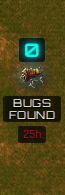
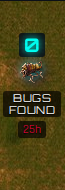
feat(monitor): the whole floor fits one screen - rows tightened, loop beside the silo, legend in the head row (Ben)
Ben, 3:27 PM CDT 2026-09-12: "tighten everything up vertically. I'd like
the full CI/CD to fit on one screen easily" (his window: 1512x850).

- Row-1 gap 56 -> 14px; row 3 (conflict loop + closed-issues list, all
  right of the silo) pulled 98px up into the bare ground beside the 9x9
  silo's lower half; the legend sits in the panel head row beside the repo
  dropdown instead of taking a line; sparkline slot 26 -> 22; the closed
  list denser (10 rows ~150px, 500px wide, clear of DEPLOYED).
- Strip is 591px, bottom at y=787 of 850 with a full 10-row list.

Guard at 1512x850 with 10 closed issues: strip ends above y=800 and is
under 620px; the list clears DEPLOYED, every row-2 belt and the shared
belt; the loop clears row 2's stage content; the legend is above the
ground and off the dropdown/refresh button. Two earlier cuts of the pull
failed it (list into MERGED; list clipping a belt's bottom inserter;
legend on the list's last row) and set these numbers. Mutants: 56px gaps
(runs past the window) and -190px (overlap) both killed.

Claude-Session: https://claude.ai/code/session_015a21LH9eqkn4oZydkWAQ3i

diff --git a/queue_router.py b/queue_router.py
@@ -7423,7 +7423,15 @@ background-repeat:repeat;background-size:1536px 768px;border-radius:6px}
    from the from-stage's top to the to-stage's bottom regardless of this
    gap (positionShipElbows sizes it), so the gap only needs to be enough
    for the belt to visibly read as a run between the rows, not to hold it. */
-.ship-flow.ship-row-1,.ship-flow.ship-row-2{margin-bottom:56px}
+/* Ben (3:27 PM, 2026-09-12): "tighten everything up vertically - the full
+   CI/CD should fit on one screen easily." The row-end belts span sprite to
+   sprite whatever the gap, so the rows only need enough air to read as
+   rows. Row 3 (the conflict loop + closed-issues list, all of it right of
+   x~360) is pulled UP into the empty ground beside the 9x9 silo's lower
+   half, which is what row 2's height is made of. */
+.ship-flow.ship-row-1{margin-bottom:14px}
+.ship-flow.ship-row-2{margin-bottom:0}
+.ship-flow.ship-row-3{margin-top:-98px}
 /* Ben's 10:08 AM rig (2026-09-12): row 2 AND row 3 both start at the right
    edge, under 'in review' - row 3 is the short conflict side-loop
    (conflicted, resolved) hanging under gate verdicts / approved, so it is
@@ -7451,7 +7459,7 @@ padding-right:12px;white-space:nowrap}
 .ship-stage{background:none;border:0;border-radius:0;
 padding:7px 6px;min-width:92px;text-align:center;display:flex;flex-direction:column;
 align-items:center;justify-content:flex-start;gap:2px;cursor:pointer}
-.ship-hist-spacer{height:26px;margin:0 auto 3px auto}
+.ship-hist-spacer{height:22px;margin:0 auto 2px auto}
 .ship-stage{position:relative}
 /* SHIP-GAME item 0: the whole box is the click target now (no caret button) -
    a visible focus ring is the keyboard-reachability signal the caret used to
@@ -7539,7 +7547,11 @@ filter:var(--ground-shadow)}
 @keyframes asm3-x{to{background-position-x:-640px}}
 @keyframes asm3-y{to{background-position-y:-356px}}
 @media(prefers-reduced-motion:reduce){.ship-sprite.asm3.working{animation:none}}
+/* One-screen (Ben, 3:27 PM): the legend takes no vertical space - it sits
+   up in the panel's head row, in the empty run between the repo dropdown
+   and the refresh button. */
 .ship-legend{display:flex;gap:18px;align-items:center;margin:6px 0 4px;font-size:.72em;color:#c7cee0;text-shadow:var(--text-outline)}
+#ship-flow .ship-legend{position:absolute;top:-36px;left:400px;margin:0;z-index:3}
 .ship-legend-chip{display:flex;align-items:center;gap:6px}
 .ship-legend-swatch{width:16px;height:16px;flex:0 0 auto}
 .ship-legend-swatch.stage-machine{border-radius:2px;border:1px solid #2a3450;background:rgba(255,255,255,.03)}
@@ -7674,8 +7686,8 @@ border-radius:1px 1px 0 0;min-height:1px}
    width wider than the machine, a touch taller, and on the same dark plate
    as the captions so the line reads. */
 .ship-history-spark{display:block;width:100%;height:22px}
-.ship-stage>.ship-history-spark,.ship-stage .ship-issues-rate{width:110px;min-width:110px;margin:0 auto 3px auto}
-.ship-stage>.ship-history-spark{height:26px;background:rgba(0,0,0,.5);border-radius:3px;padding:2px 3px;box-sizing:border-box}
+.ship-stage>.ship-history-spark,.ship-stage .ship-issues-rate{width:110px;min-width:110px;margin:0 auto 2px auto}
+.ship-stage>.ship-history-spark{height:22px;background:rgba(0,0,0,.5);border-radius:3px;padding:2px 3px;box-sizing:border-box}
 .ship-stage .ship-issues-rate{background:rgba(0,0,0,.5);border-radius:3px;padding:2px 3px;box-sizing:border-box;height:auto}
 .ship-stage .ship-issues-rate .ship-history-spark{height:22px}
 /* SHIP-SPARK-3 hover-tooltip fix: SHIP-SPARK/SHIP-SPARK-2 used a native SVG
@@ -8000,10 +8012,10 @@ gap:0;padding:2px 0;align-self:center;align-items:center}
    2), so the list is the row's LAST DOM child and lands in the open space
    on the left. */
 .ship-closed{align-self:flex-start;margin:8px 24px 0 0;background:rgba(0,0,0,.66);border-radius:4px;
-padding:6px 10px;color:#fff;font-size:.72em;font-family:'Orbitron',monospace;letter-spacing:.5px;min-width:380px;max-width:560px}
-.ship-closed-head{display:grid;grid-template-columns:1fr 78px 92px;gap:8px;text-transform:uppercase;color:#c7cee0;
+padding:4px 8px;color:#fff;font-size:.58em;font-family:'Orbitron',monospace;letter-spacing:.3px;min-width:380px;max-width:500px}
+.ship-closed-head{display:grid;grid-template-columns:1fr 70px 84px;gap:8px;text-transform:uppercase;color:#c7cee0;
 font-size:.85em;border-bottom:1px solid #556;padding-bottom:3px;margin-bottom:3px;white-space:nowrap}
-.ship-closed-row{display:grid;grid-template-columns:56px 1fr 78px 92px;gap:8px;line-height:1.5;white-space:nowrap}
+.ship-closed-row{display:grid;grid-template-columns:52px 1fr 70px 84px;gap:8px;line-height:1.2;white-space:nowrap}
 .ship-closed-title{overflow:hidden;text-overflow:ellipsis;color:#e6e9f0}
 .ship-closed-num{color:var(--neon-cyan)}
 .ship-closed-t{text-align:right;font-variant-numeric:tabular-nums}

diff --git a/tests/dashboard-truth/factorio-belts-evidence.py b/tests/dashboard-truth/factorio-belts-evidence.py
@@ -674,6 +674,57 @@ with sync_playwright() as p:
     assert bg == '1536px 768px', bg
     browser.close()
 
+# ONE SCREEN (Ben, 3:27 PM CDT 2026-09-12): "tighten everything up
+# vertically - I'd like the full CI/CD to fit on one screen easily." His
+# window is 1512x850 CSS px (3024x1964 retina, browser chrome off), the page
+# header puts the strip's top at ~196. With a full 10-row closed-issues
+# list the whole strip (legend, three rows, list, silo) must end well above
+# the fold, and nothing may overlap: row 3 is pulled up beside the silo, so
+# the closed list must stay clear of DEPLOYED and the loop clear of row 2.
+pipeline_fixture_ten_closed = dict(pipeline_fixture, closed_issue_timings=[
+    dict(pipeline_fixture['closed_issue_timings'][0], number=7000 + i, title='Closed issue number %d with a longish title to clip' % i) for i in range(10)])
+with sync_playwright() as p:
+    browser = p.chromium.launch(headless=True)
+    page = browser.new_page(viewport={'width': 1512, 'height': 850})
+    stub_routes(page, pipeline_fixture_ten_closed)
+    page.goto('http://127.0.0.1:5099/', wait_until='domcontentloaded')
+    page.evaluate('async()=>{await refreshShipFlow();}')
+    page.wait_for_timeout(1200)
+    flow = page.locator('#ship-flow').bounding_box()
+    assert flow['y'] + flow['height'] <= 800, ('strip runs past a 850px window', flow)
+    assert flow['height'] <= 620, ('strip taller than one screen allows', flow)
+    def box(sel):
+        # The union of a stage's CHILDREN, not its flex box - row 2's boxes
+        # all stretch to the silo's height, which is empty ground below the
+        # short stages, not content.
+        return page.locator(sel).evaluate('''el => { let l = 1e9, t = 1e9, r = -1e9, b = -1e9;
+            for (const c of el.children) { const q = c.getBoundingClientRect(); if (!q.width) continue; l = Math.min(l, q.left); t = Math.min(t, q.top); r = Math.max(r, q.right); b = Math.max(b, q.bottom); }
+            if (l > r) { const q = el.getBoundingClientRect(); return {x: q.left, y: q.top, width: q.width, height: q.height}; }
+            return {x: l, y: t, width: r - l, height: b - t}; }''')
+    def overlap(a, b):
+        return a['x'] < b['x'] + b['width'] and b['x'] < a['x'] + a['width'] and a['y'] < b['y'] + b['height'] and b['y'] < a['y'] + a['height']
+    deployed = box('[data-square="last deploy"]'); closed = box('.ship-closed')
+    assert not overlap(deployed, closed), ('closed list overlaps DEPLOYED', deployed, closed)
+    for sq in ('conflicted', 'resolved'):
+        for above in ('gate verdicts', 'approved', 'in line'):
+            assert not overlap(box('[data-square="' + sq + '"]'), box('[data-square="' + above + '"]')), (sq, 'overlaps', above)
+    legend = box('#ship-flow .ship-legend')
+    # The legend lives in the panel's head row (above the ground, beside the
+    # repo dropdown) so it costs the strip no height - and must not sit on
+    # the dropdown or the refresh button.
+    ground = page.locator('#ship-flow').evaluate("el => { const q = el.parentElement.getBoundingClientRect(); return {x: q.left, y: q.top, width: q.width, height: q.height}; }")
+    assert legend['y'] + legend['height'] <= ground['y'] + 1, ('legend must sit above the ground, in the head row', legend, ground)
+    for sel in ('#glance-strip select', '#glance-strip .panel-refresh-btn'):
+        other = page.locator(sel).first.bounding_box()
+        assert other and not overlap(legend, other), ('legend overlaps', sel, legend, other)
+    # The closed list must clear every row-2 belt and inserter above it.
+    for i in range(page.locator('.ship-row-2 .ship-arrow').count()):
+        ab = page.locator('.ship-row-2 .ship-arrow').nth(i).bounding_box()
+        assert not overlap(closed, ab), ('closed list overlaps a row-2 belt', closed, ab)
+    assert not overlap(closed, box('#ship-elbow-4')), 'closed list overlaps the shared belt'
+    page.screenshot(path=str(OUT / 'one-screen-1512x850.png'))
+    browser.close()
+
 # Order 14 evidence: at least three frames at different points in the swing,
 # proving arms actually moved (not a single still) AND that two different
 # inserters are staggered (not swinging in lockstep). Real wall-clock waits

diff --git a/evidence/factorio-belts/README.md b/evidence/factorio-belts/README.md
@@ -410,3 +410,9 @@ Ben: "use the real inserter rotation speed and positions from the lua. for the r
 - **Grass is a rendered field:** `grass-1.png`'s sixteen 256px variants placed at random over 4096x2048, over-stamped with its 128px (18%) and 64px (10%) variants the way the game's autoplace mixes sizes, resampled to 1536x768 at the strip's scale.
 
 Guards (`factorio-belts-evidence.py`): footprint sizes and ratios (3 chests per assembler, 9 per silo), platform/hand pixel sizes, belt tile art, size and speed, the swing's keyframes (180 degrees, .77 -> .93 reach, drop at 0.2083s, back at 0.4167s, then hold to the period end, 4s at 6/h), item held to the drop and gone after, assembler working set and 30 fps steps with a frame actually advancing, grass period, reduced motion stopping swing, item and gears. Swing frames are captured by seeking every animation to pickup / mid-swing / drop. Mutants (run with a fresh server each): rotation speed halved, gears never spin, belt speed wrong, chest not 1x1, hand reach flat - all killed by named assertion.
+
+## Ben, 3:27 PM CDT 2026-09-12 - one screen
+
+Ben: "tighten everything up vertically. I'd like the full CI/CD to fit on one screen easily" (his window: 1512x850 CSS px). Row-1 gap 56 -> 14 (the row-end belts span sprite to sprite regardless); row 3 - the conflict loop and the closed-issues list, all of it right of the silo - is pulled 98px up into the bare ground beside the 9x9 silo's lower half; the legend moves up into the panel's head row beside the repo dropdown instead of taking a line; sparkline slot 26 -> 22; the closed list is denser (10 rows in ~150px, 500px wide so it clears DEPLOYED). Strip: 591px, bottom at y=787 of 850 with a full 10-row list.
+
+Guard (`one-screen-1512x850.png`): at 1512x850 with 10 closed issues the strip ends above y=800 and is under 620px tall; the list clears DEPLOYED, every row-2 belt and the shared belt; the loop clears row 2's stage content (children rects, since row 2's flex boxes all stretch to the silo's height); the legend sits above the ground and off the dropdown and refresh button. The first two cuts of the pull (-150px, then -120px) each failed a guard - the list ran into MERGED's sparkline, then clipped a row-2 belt's bottom inserter by 13px, and the legend sat on the list's last row - which is what set the numbers above and added the belt and legend clauses. Mutants: rows back to 56px gaps - killed ("runs past a 850px window"); row 3 pulled to -190px - killed (overlap).
